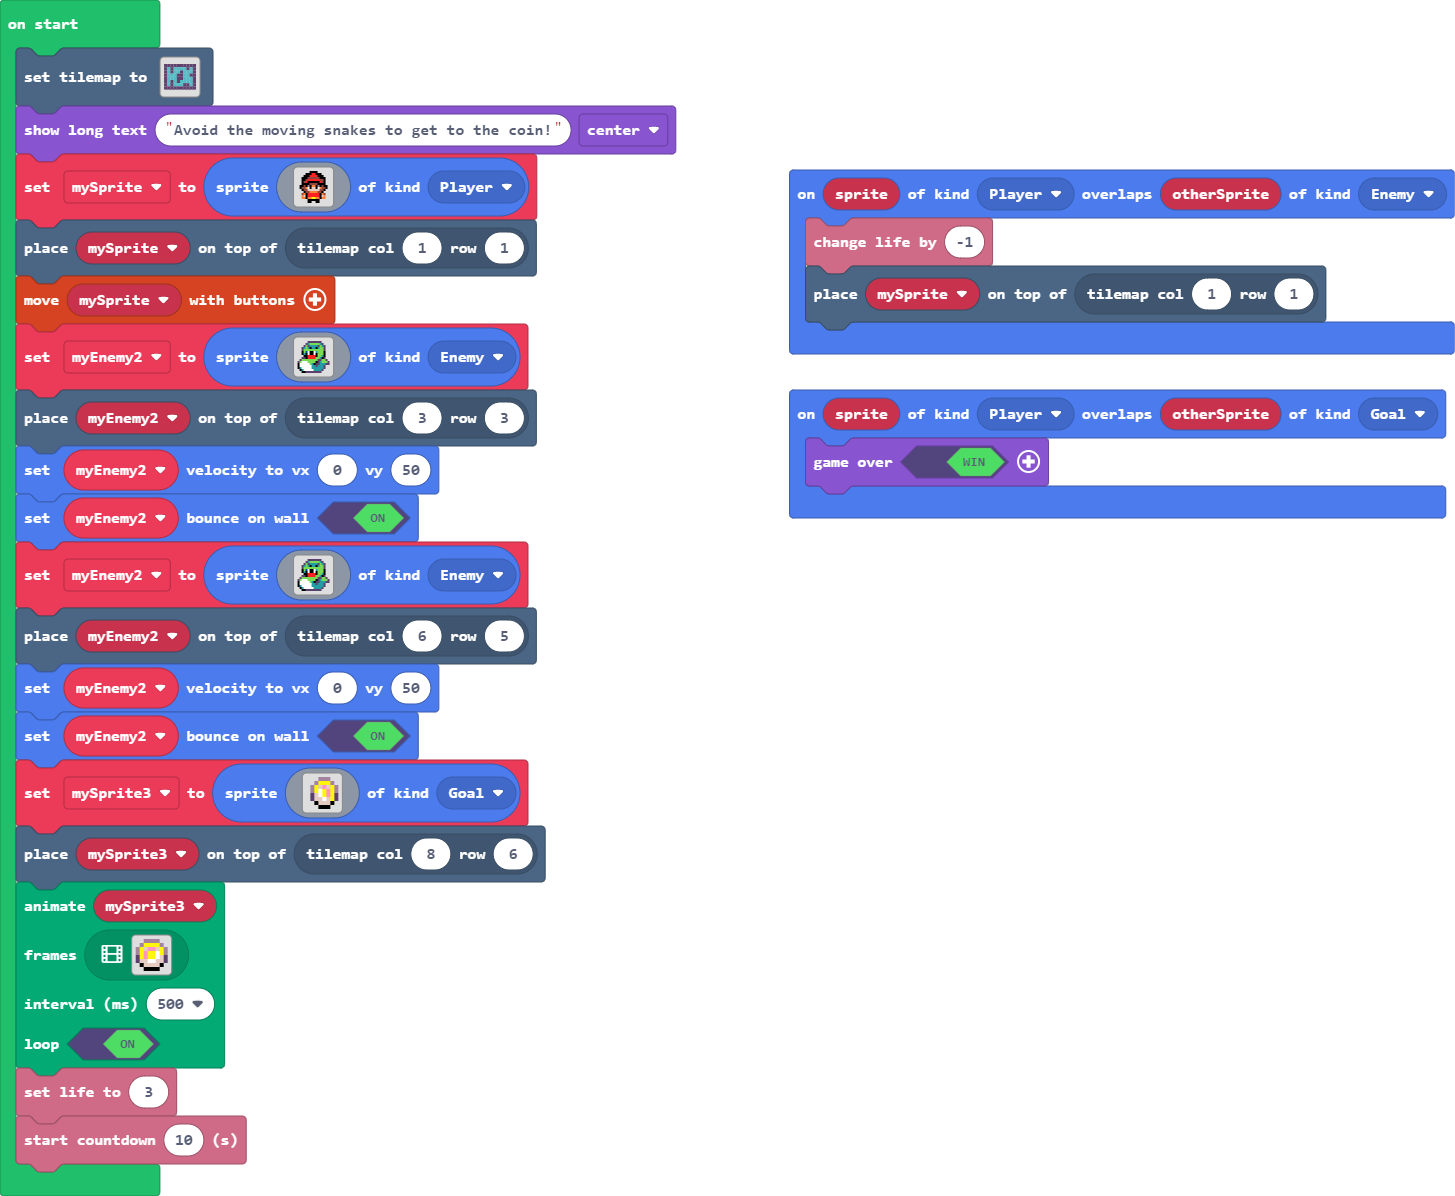
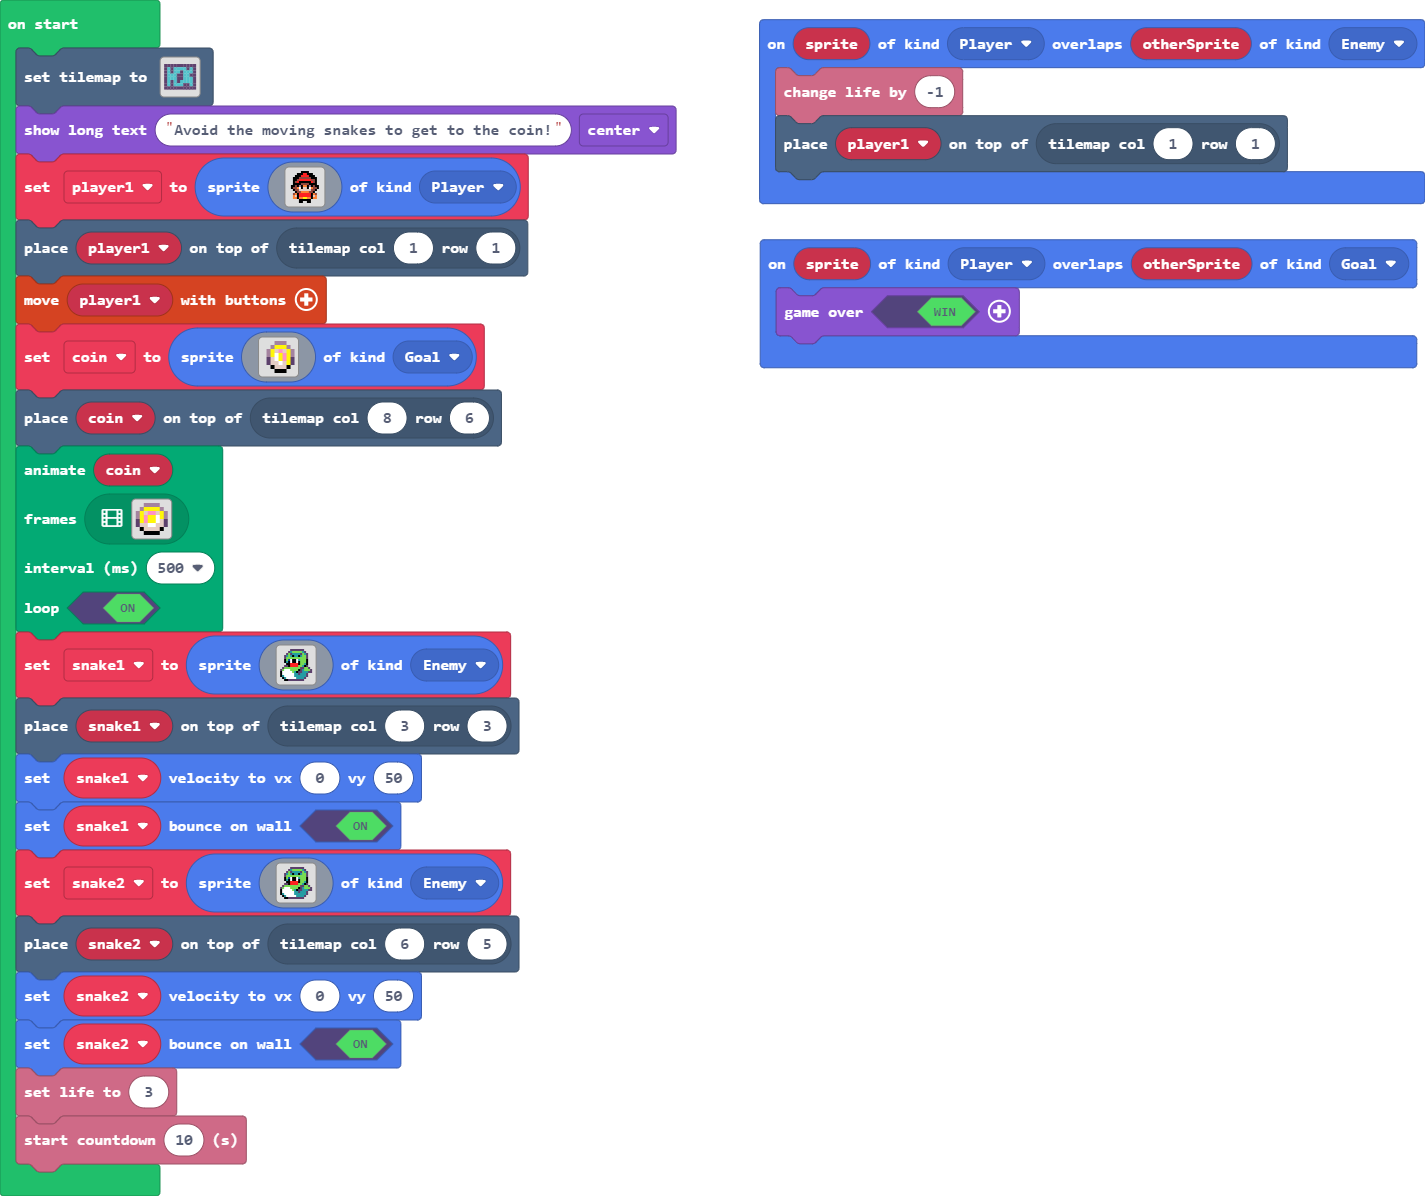
Update main.blocks, main.ts, tilemap.g.jres, tilemap.g.ts

diff --git a/main.ts b/main.ts
@@ -6,12 +6,12 @@ sprites.onOverlap(SpriteKind.Player, SpriteKind.Goal, function (sprite, otherSpr
 })
 sprites.onOverlap(SpriteKind.Player, SpriteKind.Enemy, function (sprite, otherSprite) {
     info.changeLifeBy(-1)
-    tiles.placeOnTile(mySprite, tiles.getTileLocation(1, 1))
+    tiles.placeOnTile(player1, tiles.getTileLocation(1, 1))
 })
-let mySprite: Sprite = null
+let player1: Sprite = null
 tiles.setTilemap(tilemap`level2`)
 game.showLongText("Avoid the moving snakes to get to the coin!", DialogLayout.Center)
-mySprite = sprites.create(img`
+player1 = sprites.create(img`
     . . . . . . f f f f . . . . . . 
     . . . . f f f 2 2 f f f . . . . 
     . . . f f f 2 2 2 2 f f f . . . 
@@ -29,51 +29,9 @@ mySprite = sprites.create(img`
     . . . . . f f f f f f . . . . . 
     . . . . . f f . . f f . . . . . 
     `, SpriteKind.Player)
-tiles.placeOnTile(mySprite, tiles.getTileLocation(1, 1))
-controller.moveSprite(mySprite)
-let myEnemy2 = sprites.create(img`
-    . . . . . c c c c c c c . . . . 
-    . . . . c 6 7 7 7 7 7 6 c . . . 
-    . . . c 7 c 6 6 6 6 c 7 6 c . . 
-    . . c 6 7 6 f 6 6 f 6 7 7 c . . 
-    . . c 7 7 7 7 7 7 7 7 7 7 c . . 
-    . . f 7 8 1 f f 1 6 7 7 7 f . . 
-    . . f 6 f 1 f f 1 f 7 7 7 f . . 
-    . . . f f 2 2 2 2 f 7 7 6 f . . 
-    . . c c f 2 2 2 2 7 7 6 f c . . 
-    . c 7 7 7 7 7 7 7 7 c c 7 7 c . 
-    c 7 1 1 1 7 7 7 7 f c 6 7 7 7 c 
-    f 1 1 1 1 1 7 6 f c c 6 6 6 c c 
-    f 1 1 1 1 1 1 6 6 c 6 6 6 c . . 
-    f 6 1 1 1 1 1 6 6 6 6 6 6 c . . 
-    . f 6 1 1 1 1 1 6 6 6 6 c . . . 
-    . . f f c c c c c c c c . . . . 
-    `, SpriteKind.Enemy)
-tiles.placeOnTile(myEnemy2, tiles.getTileLocation(3, 3))
-myEnemy2.setVelocity(0, 50)
-myEnemy2.setBounceOnWall(true)
-myEnemy2 = sprites.create(img`
-    . . . . . c c c c c c c . . . . 
-    . . . . c 6 7 7 7 7 7 6 c . . . 
-    . . . c 7 c 6 6 6 6 c 7 6 c . . 
-    . . c 6 7 6 f 6 6 f 6 7 7 c . . 
-    . . c 7 7 7 7 7 7 7 7 7 7 c . . 
-    . . f 7 8 1 f f 1 6 7 7 7 f . . 
-    . . f 6 f 1 f f 1 f 7 7 7 f . . 
-    . . . f f 2 2 2 2 f 7 7 6 f . . 
-    . . c c f 2 2 2 2 7 7 6 f c . . 
-    . c 7 7 7 7 7 7 7 7 c c 7 7 c . 
-    c 7 1 1 1 7 7 7 7 f c 6 7 7 7 c 
-    f 1 1 1 1 1 7 6 f c c 6 6 6 c c 
-    f 1 1 1 1 1 1 6 6 c 6 6 6 c . . 
-    f 6 1 1 1 1 1 6 6 6 6 6 6 c . . 
-    . f 6 1 1 1 1 1 6 6 6 6 c . . . 
-    . . f f c c c c c c c c . . . . 
-    `, SpriteKind.Enemy)
-tiles.placeOnTile(myEnemy2, tiles.getTileLocation(6, 5))
-myEnemy2.setVelocity(0, 50)
-myEnemy2.setBounceOnWall(true)
-let mySprite3 = sprites.create(img`
+tiles.placeOnTile(player1, tiles.getTileLocation(1, 1))
+controller.moveSprite(player1)
+let coin = sprites.create(img`
     . . . b b b . . 
     . . b 5 5 5 b . 
     . b 5 d 3 d 5 b 
@@ -83,9 +41,9 @@ let mySprite3 = sprites.create(img`
     . . f d d d f . 
     . . . f f f . . 
     `, SpriteKind.Goal)
-tiles.placeOnTile(mySprite3, tiles.getTileLocation(8, 6))
+tiles.placeOnTile(coin, tiles.getTileLocation(8, 6))
 animation.runImageAnimation(
-mySprite3,
+coin,
 [img`
     . . b b b b . . 
     . b 5 5 5 5 b . 
@@ -144,5 +102,47 @@ mySprite3,
 500,
 true
 )
+let snake1 = sprites.create(img`
+    . . . . . c c c c c c c . . . . 
+    . . . . c 6 7 7 7 7 7 6 c . . . 
+    . . . c 7 c 6 6 6 6 c 7 6 c . . 
+    . . c 6 7 6 f 6 6 f 6 7 7 c . . 
+    . . c 7 7 7 7 7 7 7 7 7 7 c . . 
+    . . f 7 8 1 f f 1 6 7 7 7 f . . 
+    . . f 6 f 1 f f 1 f 7 7 7 f . . 
+    . . . f f 2 2 2 2 f 7 7 6 f . . 
+    . . c c f 2 2 2 2 7 7 6 f c . . 
+    . c 7 7 7 7 7 7 7 7 c c 7 7 c . 
+    c 7 1 1 1 7 7 7 7 f c 6 7 7 7 c 
+    f 1 1 1 1 1 7 6 f c c 6 6 6 c c 
+    f 1 1 1 1 1 1 6 6 c 6 6 6 c . . 
+    f 6 1 1 1 1 1 6 6 6 6 6 6 c . . 
+    . f 6 1 1 1 1 1 6 6 6 6 c . . . 
+    . . f f c c c c c c c c . . . . 
+    `, SpriteKind.Enemy)
+tiles.placeOnTile(snake1, tiles.getTileLocation(3, 3))
+snake1.setVelocity(0, 50)
+snake1.setBounceOnWall(true)
+let snake2 = sprites.create(img`
+    . . . . . c c c c c c c . . . . 
+    . . . . c 6 7 7 7 7 7 6 c . . . 
+    . . . c 7 c 6 6 6 6 c 7 6 c . . 
+    . . c 6 7 6 f 6 6 f 6 7 7 c . . 
+    . . c 7 7 7 7 7 7 7 7 7 7 c . . 
+    . . f 7 8 1 f f 1 6 7 7 7 f . . 
+    . . f 6 f 1 f f 1 f 7 7 7 f . . 
+    . . . f f 2 2 2 2 f 7 7 6 f . . 
+    . . c c f 2 2 2 2 7 7 6 f c . . 
+    . c 7 7 7 7 7 7 7 7 c c 7 7 c . 
+    c 7 1 1 1 7 7 7 7 f c 6 7 7 7 c 
+    f 1 1 1 1 1 7 6 f c c 6 6 6 c c 
+    f 1 1 1 1 1 1 6 6 c 6 6 6 c . . 
+    f 6 1 1 1 1 1 6 6 6 6 6 6 c . . 
+    . f 6 1 1 1 1 1 6 6 6 6 c . . . 
+    . . f f c c c c c c c c . . . . 
+    `, SpriteKind.Enemy)
+tiles.placeOnTile(snake2, tiles.getTileLocation(6, 5))
+snake2.setVelocity(0, 50)
+snake2.setBounceOnWall(true)
 info.setLife(3)
 info.startCountdown(10)

diff --git a/tilemap.g.ts b/tilemap.g.ts
@@ -2,6 +2,8 @@
 namespace myTiles {
     //% fixedInstance jres blockIdentity=images._tile
     export const transparency16 = image.ofBuffer(hex``);
+    //% fixedInstance jres blockIdentity=images._tile
+    export const tile1 = image.ofBuffer(hex``);
 
     helpers._registerFactory("tilemap", function(name: string) {
         switch(helpers.stringTrim(name)) {
@@ -24,17 +26,6 @@ namespace myTiles {
 . . . . . . . . . . . . . . . . 
 . . . . . . . . . . . . . . . . 
 `, [], -Infinity);
-            case "level2":
[1 lines of base64/hex data omitted]
-2 2 2 2 2 2 2 2 2 2 
-2 . 2 . . . . 2 . 2 
-2 . 2 . . 2 . . . 2 
-2 . . . 2 2 . . 2 2 
-2 . . . 2 2 . . . 2 
-2 . 2 . 2 . . . . 2 
-2 . 2 . . . 2 2 . 2 
-2 2 2 2 2 2 2 2 2 2 
-`, [myTiles.transparency16,sprites.dungeon.darkGroundCenter,sprites.dungeon.collectibleInsignia], TileScale.Sixteen);
             case "level3":
[1 lines of base64/hex data omitted]
 2 2 2 2 2 2 2 2 2 2 
@@ -46,6 +37,17 @@ namespace myTiles {
 2 . 2 . . . 2 2 . 2 
 2 2 2 2 2 2 2 2 2 2 
 `, [myTiles.transparency16,sprites.dungeon.darkGroundNorthWest0,sprites.dungeon.darkGroundWest,sprites.dungeon.darkGroundSouthWest0,sprites.dungeon.darkGroundNorth,sprites.dungeon.collectibleInsignia,sprites.dungeon.darkGroundSouth,sprites.dungeon.darkGroundCenter,sprites.dungeon.darkGroundNorthEast0,sprites.dungeon.darkGroundEast,sprites.dungeon.darkGroundSouthEast0], TileScale.Sixteen);
+            case "level2":
[1 lines of base64/hex data omitted]
+2 2 2 2 2 2 2 2 2 2 
+2 . 2 . . . . 2 . 2 
+2 . 2 . . 2 . . . 2 
+2 . . . 2 2 . . 2 2 
+2 . . . 2 2 . . . 2 
+2 . 2 . 2 . . . . 2 
+2 . 2 . . . 2 2 . 2 
+2 2 2 2 2 2 2 2 2 2 
+`, [myTiles.transparency16,sprites.dungeon.darkGroundCenter,myTiles.tile1], TileScale.Sixteen);
         }
         return null;
     })
@@ -53,6 +55,8 @@ namespace myTiles {
     helpers._registerFactory("tile", function(name: string) {
         switch(helpers.stringTrim(name)) {
             case "transparency16":return transparency16;
+            case "myTile":
+            case "tile1":return tile1;
         }
         return null;
     })
